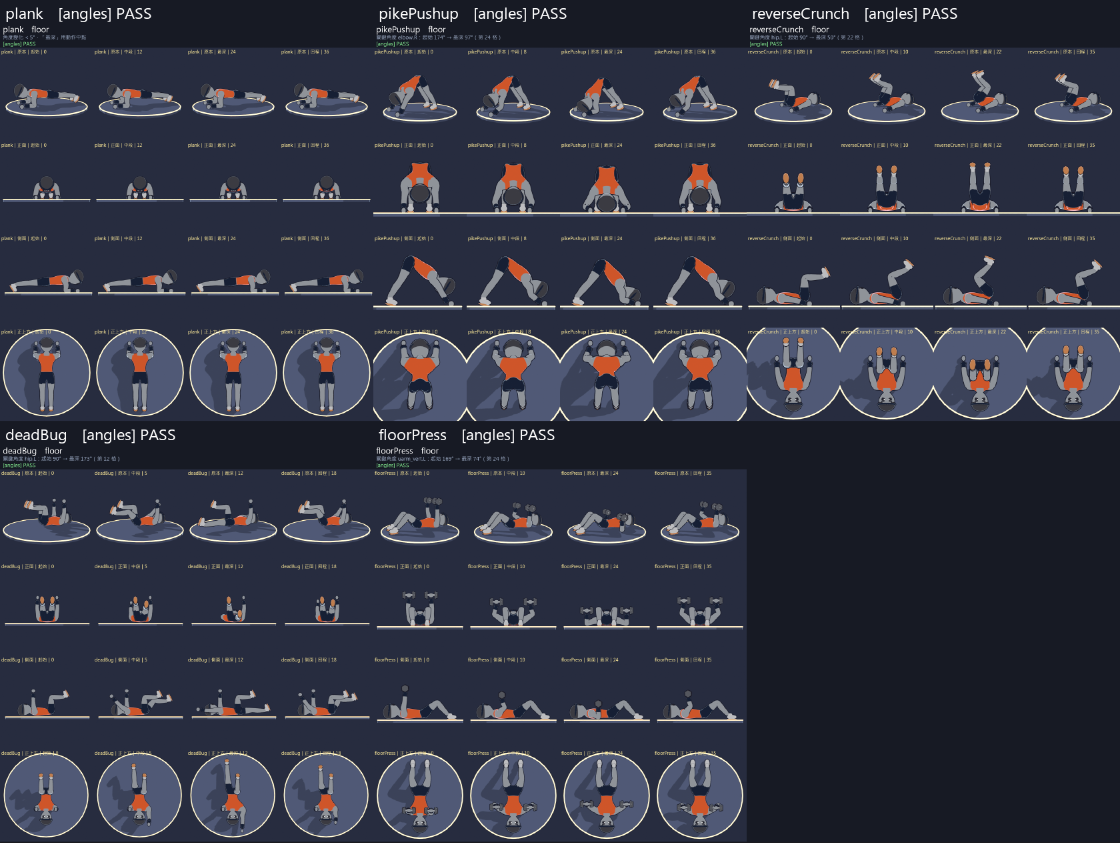
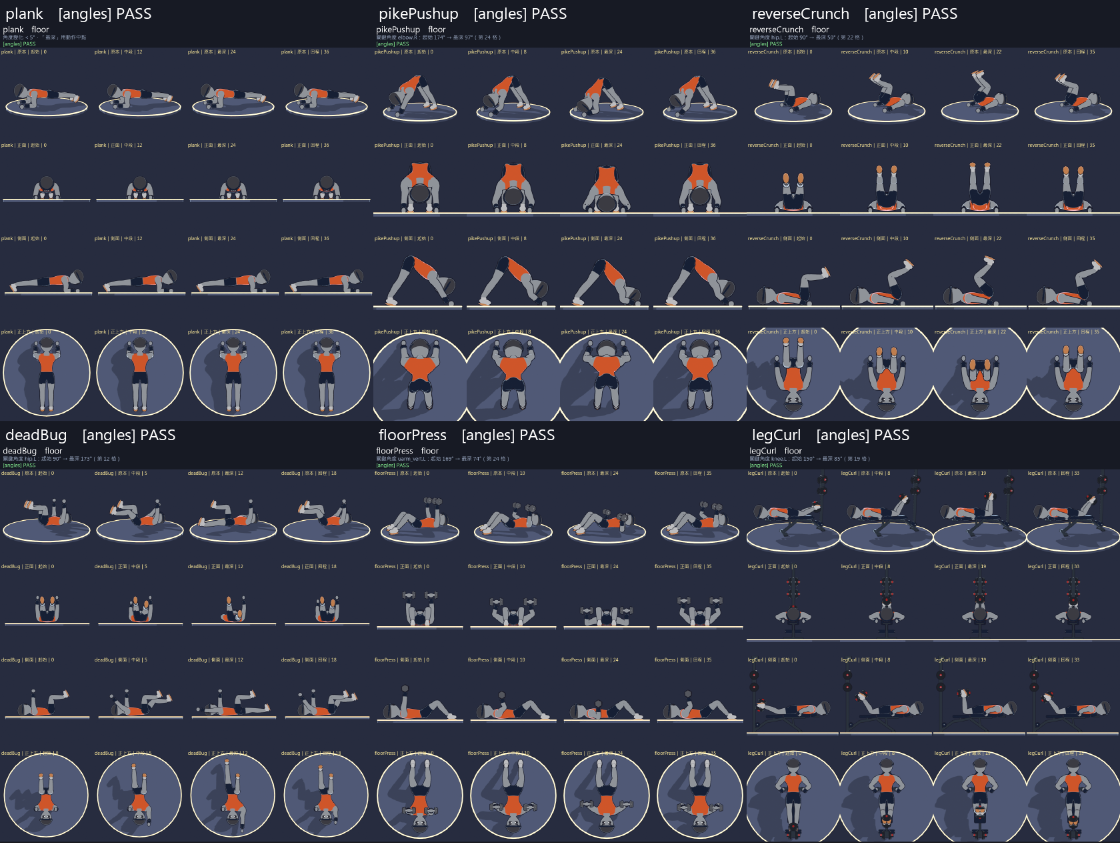
地板批：新增 legCurl（趴在一體機椅子上、機器轉 180°、兩腳夾啞鈴道具；使用者定案案 B）
更新動作卡 docs/3d-moves/floor.md（§6、檢查結果、給主對話）與總覽圖 floor_batch.png（6 個動作）。
[angles] 全 PASS；基本款只剩大腿內側互碰（單格 1）。沒改任何共用檔。 [skip ci]

Changed region(s): [[0.6562, 0.4935, 1.0, 1.0]]

diff --git a/scripts/blender/moves/floor.py b/scripts/blender/moves/floor.py
@@ -8,6 +8,7 @@ MOVE_META = {
     'pikePushup': {'angles': {'elbow': {'min': (85, 105), 'max': (165, 180)}, 'hip': (70, 105), 'knee': (165, 180), 'trunk_lean': (110, 145)}},
     'reverseCrunch': {'lean_back': True, 'angles': {'knee': (85, 100), 'hip': {'min': (45, 60), 'max': (85, 95)}, 'trunk_lean': (85, 95), 'elbow': (165, 180)}},
     'deadBug': {'lean_back': True, 'angles': {'hip': {'min': (85, 95), 'max': (160, 178)}, 'knee': {'min': (85, 95), 'max': (160, 178)}, 'trunk_lean': (85, 95), 'elbow': (165, 180)}},
+    'legCurl': {'angles': {'knee': {'min': (75, 95), 'max': (140, 165)}, 'hip': (160, 180), 'trunk_lean': (85, 95)}},
     'floorPress': {'bell': True, 'lean_back': True, 'angles': {'elbow': {'min': (65, 85), 'max': (165, 178)}, 'uarm_trunk': {'min': (45, 60)}, 'knee': (85, 105), 'trunk_lean': (85, 95)}},
 }
 
@@ -288,3 +289,63 @@ if MOVE == 'floorPress':
     for f in range(N):
         sc.frame_set(f); pose(profile(f, N, 22, 4, 15)); keyall(f)
     CAM = dict(loc=(3.2, -1.3, 0.95), tgt=(0, 0.1, 0.36), lens=52, stage=(0, 0.1, 1.0))
+
+# ======================= 啞鈴俯臥腿後彎舉（App：db_leg_curl；使用者 2026-11-25 定案：趴在一體機椅子上、整台轉 180°、兩腳夾一顆啞鈴） =======================
+# 椅子轉 180°（立柱在 +y，人面朝下趴著、頭朝 -y，雙手平放在座墊兩側），靠背放平；膝蓋在座墊上、小腿懸空越過座墊前緣；
+# 兩腳（腳弓）夾住一顆直立的啞鈴（握把垂直、槓片在腳的上下）。大腿貼墊不動、骨盆不抬；只有膝蓋彎：從約 150° 彎到約 85°（小腿接近垂直）再慢慢放下。
+# 啞鈴是另做的道具（使用者的快鎖啞鈴：黑色槓片），不是角色的 bell 裝備部位（bell 綁在手骨頭上）；父物件叫 bar（clipcheck 不算夾在腳間的接觸）。
+def fl_place_bench(back_deg, rotz_deg):
+    """呼叫 build_bench（不改它），再把新增的物件整組掛到一個轉向的空物件上"""
+    before = set(bpy.data.objects)
+    build_bench(back_deg)
+    root = bpy.data.objects.new('benchroot', None); sc.collection.objects.link(root)
+    root.rotation_euler = (0, 0, D(rotz_deg))
+    for o in bpy.data.objects:
+        if o not in before and o.parent is None and o is not root: o.parent = root
+    return root
+
+def fl_build_dumbbell():
+    """使用者的快鎖啞鈴（直立）：握把沿 z、上下各兩片黑色槓片＋紅色固定螺帽。回傳父物件 bar"""
+    bar = bpy.data.objects.new('bar', None); sc.collection.objects.link(bar)
+    own = [pcyl('chrome', (0, 0, 0), 0.018, 0.19, (0, 0, 1), n=12)]
+    for sg in (1, -1):
+        for zz, rr in ((0.10, 0.115), (0.128, 0.103)):
+            own.append(pcyl('plate', (0, 0, zz * sg), rr, 0.028, (0, 0, 1), n=32, bevel=0.006))
+        own.append(pcyl('red', (0, 0, 0.158 * sg), 0.03, 0.035, (0, 0, 1), n=6, bevel=0.004))
+    for o_ in own: o_.parent = bar
+    return bar
+
+if MOVE == 'legCurl':
+    N = 48
+    fl_place_bench(90, 180)
+    bpy.data.objects['stack'].location.z += 0.55           # 配重啞鈴組滑到立柱上方（拿走手邊那顆，也不擋小腿）
+    bar = fl_build_dumbbell()
+    ZS, YK, ALPHA = 0.625, -0.02, D(9)                    # 脊椎線高度、膝蓋 y、大腿略往下垂（座墊比靠背低 3 cm）
+    LT, LS = blen['thigh.L'], blen['shin.L']
+    def pose(t):
+        K = D(150 + (85 - 150) * t); phi = math.pi - K          # 膝蓋內角、彎曲量
+        hjy = YK - LT * math.cos(ALPHA)
+        hh = Vector((0, hjy - 0.04, ZS))
+        _, sh = trunk(hh, D(90), D(90), D(90) - D(8))
+        th = phi - ALPHA                                        # 小腿離水平往上的角度
+        ank = {}
+        for s, sx in SX:
+            hj = Vector((HIPX[s], hjy, ZS))
+            kn = hj + Vector((-0.01 * sx, math.cos(ALPHA), -math.sin(ALPHA))).normalized() * LT
+            sv = Vector((-0.085 * sx, math.cos(th), math.sin(th))).normalized()
+            an = kn + sv * LS
+            aim(f'thigh.{s}', hj, kn - hj); aim(f'shin.{s}', kn, an - kn); aim(f'foot.{s}', an, sv)
+            ank[s] = (an, sv)
+        # 雙手放在身體兩側、腰旁（手掌朝下，手肘約 100°；不去握頭枕的把手，手臂會穿過支架）
+        for s, sx in SX:
+            wrist = Vector((0.27 * sx, sh[s].y + 0.40, 0.50))
+            arm_to(s, sh[s], wrist, Vector((1.0 * sx, -0.2, 0.4)), Vector((0.05 * sx, -1.0, -0.12)))
+        # 啞鈴夾在兩腳弓之間（跟著小腿轉）
+        mid = sum((ank[s][0] + ank[s][1] * 0.085 for s, _ in SX), Vector()) / 2
+        sv = (ank['L'][1] + ank['R'][1]).normalized()
+        axis = Vector((0, -sv.z, sv.y))
+        bar.location = mid; bar.rotation_mode = 'QUATERNION'; bar.rotation_quaternion = UP.rotation_difference(axis)
+        bar.keyframe_insert('location'); bar.keyframe_insert('rotation_quaternion')
+    for f in range(N):
+        sc.frame_set(f); pose(profile(f, N, 15, 7, 22)); keyall(f)       # 向上彎 15 格（約 1.2 秒）、頂端停 7 格、慢放 22 格、起點停 4 格
+    CAM = dict(loc=(3.6, -1.6, 1.15), tgt=(0, -0.3, 0.5), lens=52, stage=(0, -0.3, 1.3))

diff --git a/docs/3d-moves/floor.md b/docs/3d-moves/floor.md
@@ -1,6 +1,6 @@
 # 動作卡：地板批次（`scripts/blender/moves/floor.py`）
 
-負責：Claude（動作）。這批：`plank`、`pikePushup`、`reverseCrunch`、`deadBug`、`floorPress`（`pushup` 是更早做好的範本，沒動）；`legCurl` **還沒做，等使用者決定做法**（見最後）。
+負責：Claude（動作）。這批：`plank`、`pikePushup`、`reverseCrunch`、`deadBug`、`floorPress`、`legCurl`（`pushup` 是更早做好的範本，沒動）。`legCurl` 照使用者 2026-11-25 定案的「案 B」做（趴在一體機椅子上、整台轉 180°、兩腳夾一顆啞鈴）。
 節奏：48 格一循環（12 fps 預覽＝4 秒）。角度範圍同時寫在 `floor.py` 檔頭 `MOVE_META` 的 `angles`（`clipbatch.py` 逐格量骨頭姿勢判定），**範圍照本卡，不照量到的值**。
 
 **來源核對說明**：下面的連結是 2026-11-25 用搜尋確認「頁面存在、標題和摘要符合」，動作要點照 ACE／NASM／ExRx 等的標準寫法整理；
@@ -90,6 +90,30 @@
 - **App 提示**：「躺在地上，膝蓋彎、腳踩穩。手肘往身體兩側斜下方放，大約離身體一個 45° 角，輕輕碰到地板就停一下，再推回肩膀正上方。別讓手肘砸地反彈，手腕保持打直。」
 - 風險：一般。
 
+## 6. 啞鈴俯臥腿後彎舉 `legCurl`（App：`db_leg_curl`；趴在一體機椅子上）
+- 起始：**面朝下趴在椅子上**（靠背放平，機器轉 180°，立柱在腳那一側），膝蓋在座墊上、小腿懸空越過座墊前緣；兩腳（腳弓）**夾住一顆直立的啞鈴**（握把垂直、槓片在腳的上下）；
+  雙手放身體兩側，頭放鬆朝下。腿接近伸直但不鎖死（3D 起點膝蓋約 150°）。
+- 彎舉：吐氣，用大腿後側把腳跟拉向臀部，**大腿貼著墊子不動、骨盆不抬**；彎到小腿接近垂直地面（膝蓋約 85～90°）就停，頂端停約 0.5 秒（夾 1 秒以內）。
+  **不要彎到腳跟碰臀部**（啞鈴會滑出去，也不要為了彎更多把髖抬起來）。
+- 放下：慢慢（約 2 秒）放回，到快伸直就停（不要讓啞鈴自由落下）。
+- 節奏：向上彎 15 格（約 1.2 秒）、頂端停 7 格、放下 22 格（約 1.8 秒）、起點停 4 格。
+- 關鍵角度：膝最小 75～95°（量到 85°）、最大 140～165°（150°）；髖（胸到大腿）160～180°（171°，大腿貼墊不動）；軀幹離垂直 85～95°（平趴）。
+- 常見錯誤：甩動啞鈴借力、髖部翹起離開墊子（腰椎過度反弓）、彎太高啞鈴滑落、膝蓋離開座墊邊緣太遠或太近、手腕或腳踝沒夾緊、重量太重。
+- 來源：
+  - Muscle & Strength Dumbbell Hamstring Curl（同一個變化式：啞鈴夾在腳間）：https://www.muscleandstrength.com/exercises/dumbbell-hamstring-curl.html
+  - RDL Fitness〈Proper Form on Lying Dumbbell Leg Curls〉（同一個變化式；啞鈴放平椅、夾在腳弓間，起始比較困難）：https://www.rdlfitness.com/blog/proper-form-on-lying-dumbbell-leg-curls
+  - NASM Lying Leg Curl（**機器版**，差在阻力由滾筒施加、不會滑落；膝蓋對齊椅緣、髖壓住墊子的要點相同）：https://www.nasm.org/resource-center/exercise-library/lying-leg-curl
+  - 找不到 ACE、NSCA、ExRx 的啞鈴版頁面。
+  - 來源分歧：啞鈴的方向——有的說夾在腳弓間、直立（on its end），有的說「橫著夾」→ 3D 取直立（握把垂直）；彎舉高度——機器版可以彎到腳跟接近臀部，啞鈴版多數說不要彎那麼高（會滑落）→ 取較保守的「小腿垂直（約 85～90°）」；最難的是把啞鈴夾好，多個來源建議請人幫忙放，App 提示要寫「用輕重量」。
+- **3D 與真人的差別（審查時要知道）**：
+  - 公仔身長比一體機椅子長：身體要躺滿，頭會超出椅子頭端（頭枕外面）；膝蓋放在座墊中段（離前緣約 0.3 m），小腿從前緣懸空。
+  - 立柱在椅子前端（機器轉 180° 後在腳那一側），小腿完全伸直時腳會碰到立柱 → 起點膝蓋留在約 150°（小腿略往上），不做到完全伸直；立柱上的配重啞鈴組（`stack`）往上滑 0.55 m，不然會擋到小腿（真人可以把滑套推上去）。
+  - 腳踝滾筒**沒有接配重**，不是阻力來源，只是機器本來就在那裡；阻力只有夾在腳間的啞鈴。
+  - 手放身體兩側（手肘約 105°），不去握頭枕的把手（手臂會穿過支架）。
+  - 夾在腳間的啞鈴是另做的道具（黑色槓片的快鎖啞鈴，物件名 `bar`），不是角色的 `bell` 裝備部位（`bell` 綁在手骨頭上，要改成綁腳得動 `hero_proto.py`）；所以系列的啞鈴造型（冰塊、豬臉…）不會出現在這個動作，這個動作的 `MOVE_META` 也沒有寫 `bell`。
+- **App 提示**：「趴在椅子上，膝蓋在座墊上、小腿懸空，兩腳用腳弓夾緊啞鈴（用輕重量，夾不穩就先不拿）。大腿和肚子貼住墊子，用大腿後側把腳跟拉向屁股，小腿到垂直就停，不要再彎、也別把屁股翹起來。放下時慢慢來，不要讓啞鈴掉下去。」
+- 風險：一般（啞鈴滑落有風險，示範與提示都要求輕重量、彎到垂直就停）→ 建議教練確認。
+
 ---
 
 ## 檢查結果（2026-11-25；基本款＋鈦甲／冰霜／小豬）
@@ -102,13 +126,15 @@
 | `pikePushup` | PASS | 手肘 97～174、髖 74～79、膝 172、軀幹 126～139 | 4／4／12／12 | 390；肩（上臂＋鎖骨）拉扯 44 |
 | `reverseCrunch` | PASS | 膝 92、髖 50～90、軀幹 90、手肘 171 | 4／3／12／59 | 326；膝窩（大腿＋小腿）30 |
 | `deadBug` | PASS | 髖 90～173、膝 90～172、手肘 166～171、軀幹 90 | 4／4／12／28 | 359；伸出去那側肩（上臂＋鎖骨）拉扯 50 |
+| `legCurl` | PASS | 膝 85～150、髖 171、手肘 105、軀幹 90 | 1／125／96／290（後三者是兩隻鞋互穿） | 313；膝窩 31、大腿×小腿皮膚自穿 27 |
 | `floorPress` | PASS | 手肘 74～169、上臂／軀幹 46～80、膝 89、軀幹 90 | 0／0／8／8 | 471；膝窩 31、手肘窩（前臂×上臂皮膚自穿）29 |
 
 - **基本款**：所有硬碰撞都是「大腿內側互碰」（`body:thigh.L × body:thigh.R`，臀部下方大腿本來就貼在一起），單格 ≤4；地板臥推 0；沉入地板 0。
 - **冰霜長褲**：只有大腿互碰（布料厚度，單格 8～12）。**小豬**：同基本款（≤4）。
 - **鈦甲**（系列裝備穿模使用者 2026-11-24 決定可接受、只記錄、留給裝備端）：`reverseCrunch` 單格 59＝胸甲×大腿甲各 24（膝蓋帶向胸口時大腿甲撞到胸甲，每格都有）＋大腿互碰 13；
   `deadBug` 單格 28＝**上臂×頭盔 18**（手臂伸到頭兩側時鈦甲肩甲／上臂貼著頭盔）＋大腿互碰 12；其他是大腿甲互碰（plank 10、pikePushup 12、floorPress 8）。
-- **deformcheck**：每格壞面 326～471，全是關節處的正常擠壓／拉扯（肩膀＋鎖骨、髖、膝窩、手肘窩），和已完成動作同量級（pulldown 550、skullCrusher 718、滑輪 A 80～760），
+- `legCurl`（基本款）：只有大腿內側互碰單格 1，沉地 0；系列裝備是**兩隻鞋互穿**（腳夾著啞鈴靠得很近，鞋比腳寬）：小豬 124、冰霜 88、鈦甲 239（另外鈦甲靴×椅子／立柱 26、胸甲×手 47）。系列穿模使用者決定可接受，只記錄。
+- **deformcheck**：每格壞面 313～471，全是關節處的正常擠壓／拉扯（肩膀＋鎖骨、髖、膝窩、手肘窩），和已完成動作同量級（pulldown 550、skullCrusher 718、滑輪 A 80～760），
   **不是 0**（骨架權重造成，不是這批姿勢）。單一部位最大 50（死蟲手臂過頭時的肩膀）。App 的線性蒙皮（`LBS=1`）沒另外跑。
 
 ## 自我審查（§8；發現 → 原因 → 修法）
@@ -122,39 +148,28 @@
 4. **反向捲腹第一版頭沉進地板**（接地修正把整個人抬高 9.7 cm＝人飄在空中）：我把整條軀幹（含胸）一起繞上背轉，胸跟著往下 → 改成胸固定平貼地板、只有骨盆繞腰往後捲（`fl_lying(psi)`）；髖離地 10 cm，接地修正 0.005。
 5. **仰躺動作的手臂伸直不夠**（elbow 160～162°）：IK 目標拉到 0.985 倍手臂長 → 改 0.995～0.997。
 6. 其他檢查：臉、頭（沒有往後仰）、腳踩地（腳尖、腳底平貼）、啞鈴握把方向（左右向、握在手中間）、手肘碰地位置都正常；沒看到抖動或跳格（棒式 ±1° 呼吸很小、死蟲換邊 24 格交接處兩邊都回到桌面姿勢）。
-7. **還沒做的（要請教練確認）**：棒式前臂版手是平放還是握拳（3D 是平放朝前）；屈體伏地挺身的頭落點（手腕前約 10 cm）；死蟲伸出去的高度（離地約 10 cm）。
+7. **腿彎舉兩個問題**：(a) 起點啞鈴撞到立柱上的配重啞鈴組（腳在 y≈0.5、配重在 0.62）→ 把 `stack` 往上滑 0.55 m（真人也可以把滑套推上去）；(b) 雙手握頭枕把手時前臂×硬器材每格 122、手×硬器材 78（手臂穿過支架）→ 改成手放身體兩側，手肘約 105°，基本款硬碰撞剩大腿互碰 1。
+8. **還沒做的（要請教練確認）**：棒式前臂版手是平放還是握拳（3D 是平放朝前）；屈體伏地挺身的頭落點（手腕前約 10 cm）；死蟲伸出去的高度（離地約 10 cm）。
 
-## legCurl：還沒做，要使用者決定（2026-11-25）
+## legCurl 做法的決定（2026-11-25）
 
-App 的練習 `db_leg_curl`（啞鈴俯臥腿後彎舉）提示是「**趴在椅子上，兩腳夾住一顆啞鈴**」，2D 版（`MoveFrames.swift` 的 `legCurl`）也是趴在平椅上。兩案：
-
-**案 A：趴地板**，兩腳踝夾一顆啞鈴，把腳跟拉向臀部（腳可以墊毛巾、膝蓋下墊毛巾）。
-- 優點：不用動一體機，整批都是地板動作；沒有立柱擋小腿；穿模少。
-- 缺點：和 App 現在的文字、2D 圖（趴椅）不一致，要改 App 提示；膝蓋壓地（髕骨受壓，要墊）；起始要把啞鈴塞進兩腳之間，新手最困難（來源都說夾啞鈴是難處、建議找人幫忙放）。
-
-**案 B：趴在一體機椅子上**（靠背放平，膝蓋在座墊前緣外、小腿懸空）。
-- 優點：和 App、2D 一致；膝蓋懸空，小腿可以彎到 100° 以上，是標準的趴姿腿彎舉（NASM、Bodybuilding.com 都是趴平椅版）。
-- 缺點：椅子前端有立柱（y＝-0.62）和腳踝滾筒（高 0.22 m，比座墊 0.47 低很多），小腿伸直時腳到 y≈-0.71 會撞立柱 → 要把整台機器轉 180°（`place_bench`／`bench_scene` 的做法）讓人頭朝立柱、腳朝椅尾，座墊／靠背長度和趴姿胸口位置要重新量；
-  **腳踝滾筒沒有接配重**（配重只接高位滑輪），不能當腿彎舉的阻力，所以兩案阻力都是「夾啞鈴」。
-
-兩案共通：夾在腳間的啞鈴不能用角色的 `bell` 裝備部位（`bell` 是綁在手骨頭上的，改成綁腳要動 `hero_proto.py`），只能另外做一顆「使用者的快鎖啞鈴」道具（黑色槓片），所以系列的啞鈴造型（冰塊、豬臉…）不會出現在這個動作上。
-
-**建議：案 B（趴椅、機器轉 180°）**，理由是和 App 一致、動作幅度完整；若使用者覺得「夾啞鈴上下動」對新手太危險，就改成案 A 並在 App 提示強調「輕重量、慢慢彎、膝蓋下墊毛巾」。使用者決定後我再做（預估一個動作的工作量）。
+使用者選「案 B」：趴在一體機椅子上、靠背放平、整台機器轉 180°、兩腳夾一顆啞鈴道具（案 A 趴地板沒採用）。這條在 §6 已實作；案 A 的缺點（和 App 文字不一致、膝蓋壓地、啞鈴難夾）仍然成立，案 B 的限制見 §6「3D 與真人的差別」。
 
 ## 給主對話
 
-**BRIEF §10「動作：Claude」表要加的一行**（並從「動作：還沒做的」表把 `plank`、`pikePushup`、`reverseCrunch`、`deadBug`、`floorPress` 刪掉，`legCurl` 留著並把備註改成「待使用者決定：趴地或趴椅（見 `docs/3d-moves/floor.md`）」）：
+**BRIEF §10「動作：Claude」表要加的一行**（並從「動作：還沒做的」表把 `地板` 那一列整個刪掉）：
 
-| 地板 | `plank`（前臂版）、`pikePushup`、`reverseCrunch`、`deadBug`（對側手腳，48 格換邊一次）、`floorPress`（啞鈴，手肘輕觸地）（動作卡 `docs/3d-moves/floor.md`，總覽 `docs/art/blender/floor_batch.png`）。`[angles]` 全 PASS；clipcheck 單格最大（基本款／小豬／冰霜／鈦甲）：棒式 1／2／10／11、屈體 4／4／12／12、反向捲腹 4／3／12／59、死蟲 4／4／12／28、地板臥推 0／0／8／8，基本款只有大腿內側互碰；鈦甲反向捲腹胸甲×大腿甲各 24、死蟲上臂×頭盔 18 留給裝備端。deformcheck（基本款）單格壞面 326～471，單一部位 ≤50，全是關節處正常擠壓／拉扯（肩膀＋鎖骨、膝窩、肘窩），不是 0。`legCurl` 沒做，待使用者決定趴地或趴椅（兩案優缺點在動作卡）。新增共用工具都在 `floor.py` 裡（`fl_*`、`pr_*` 前綴），沒改 `moves3d.py` | 完成待審查（§8-1 由主對話安排）（Claude，2026-11-25） |
+| 地板 | `plank`（前臂版）、`pikePushup`、`reverseCrunch`、`deadBug`（對側手腳，48 格換邊一次）、`floorPress`（啞鈴，手肘輕觸地）、`legCurl`（趴在一體機椅子上、機器轉 180°、兩腳夾一顆啞鈴道具；使用者 2026-11-25 選案 B）（動作卡 `docs/3d-moves/floor.md`，總覽 `docs/art/blender/floor_batch.png`）。`[angles]` 全 PASS；clipcheck 單格最大（基本款／小豬／冰霜／鈦甲）：棒式 1／2／10／11、屈體 4／4／12／12、反向捲腹 4／3／12／59、死蟲 4／4／12／28、地板臥推 0／0／8／8、腿彎舉 1／125／96／290（後三者是兩隻鞋互穿＋鈦甲靴×立柱 26，系列穿模只記錄）。基本款只有大腿內側互碰。deformcheck（基本款）單格壞面 313～471，單一部位 ≤50，全是關節處正常擠壓／拉扯（肩膀＋鎖骨、膝窩、肘窩），不是 0。腿彎舉的限制：公仔比椅子長、頭超出椅子頭端；立柱擋腳所以起點膝蓋留 150°、配重啞鈴組往上滑 0.55 m；啞鈴是另做的道具（不是 `bell` 裝備）。新增共用工具都在 `floor.py` 裡（`fl_*`、`pr_*` 前綴），沒改 `moves3d.py` | 完成待審查（§8-1 由主對話安排）（Claude，2026-11-25） |
 
-**`coach-review.md` 要加的列**（`legCurl` 等做好再加）：
+**`coach-review.md` 要加的列**：
 
 | `pikePushup` 屈體伏地挺身 | 地板 | 高 | 未做（沒有 ACE／NSCA／ExRx 頁面，來源是 NASM＋Hinge Health，要補） | 未看 | | |
 | `floorPress` 啞鈴地板臥推 | 地板 | 一般 | 未做（沒有 ACE／NSCA 頁面） | 未看 | | |
+| `legCurl` 啞鈴俯臥腿後彎舉 | 地板 | 一般 | 未做（沒有 ACE／NSCA／ExRx 啞鈴版頁面；啞鈴滑落風險、腳間夾啞鈴的方向要教練確認） | 未看 | | |
 | `plank` 棒式（前臂版） | 地板 | 一般 | 未做 | 未看 | | |
 | `reverseCrunch` 反向捲腹 | 地板 | 一般 | 未做（沒有 ExRx／NSCA 頁面） | 未看 | | |
 | `deadBug` 死蟲式 | 地板 | 一般 | 未做（沒有 ACE 頁面） | 未看 | | |
 
-（`pikePushup` 排在「高」那一群、`pushup`、`pulldown` 那幾列之前。）
+（`pikePushup` 排在「高」那一群的最後、其他排在「一般」那群。）
 
-**共用檔案異動**：沒有（沒改任何共用檔；`.gitignore`、`clipbatch.py` 等都沒動）。
+**共用檔案異動**：沒有（沒改任何共用檔；腿彎舉用 `build_bench` 加自己的轉向空物件，沒動 `props_bench.py`、`props_cable.py`）。
